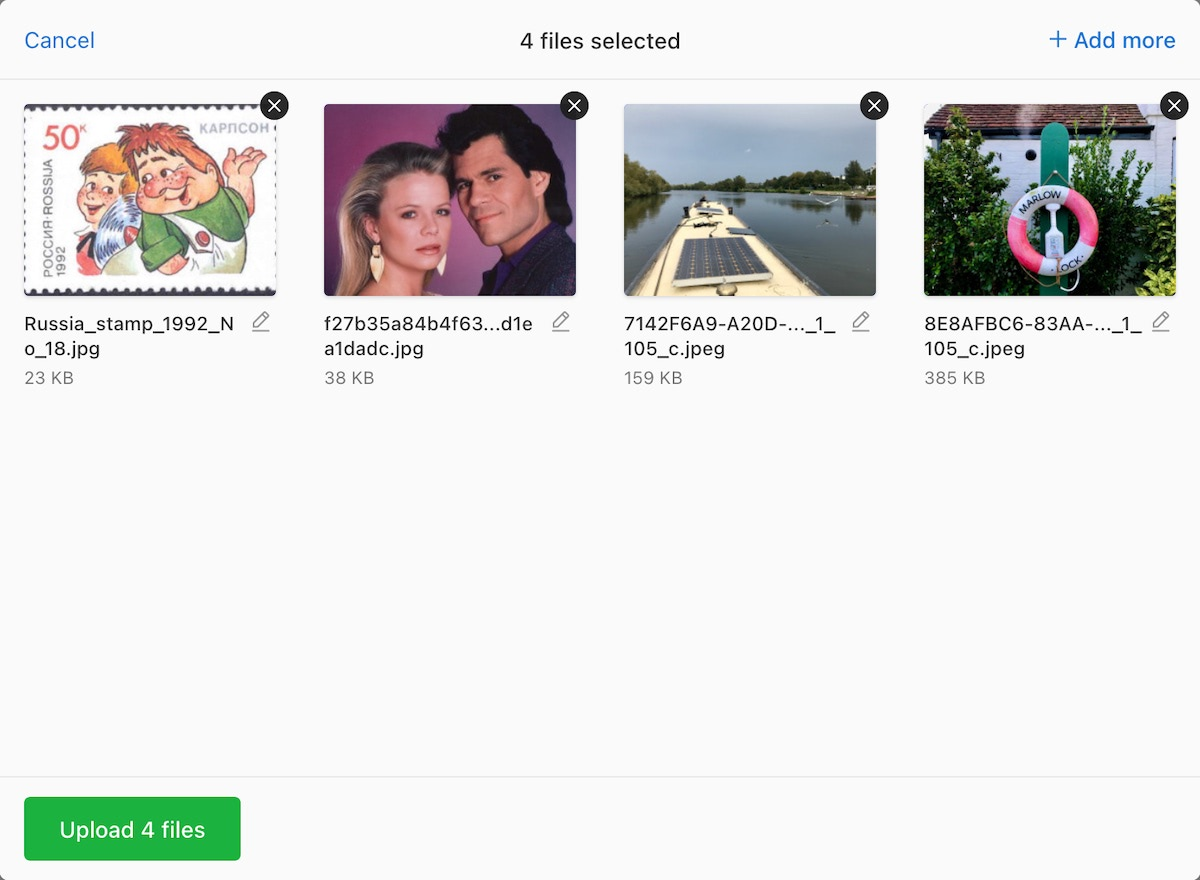
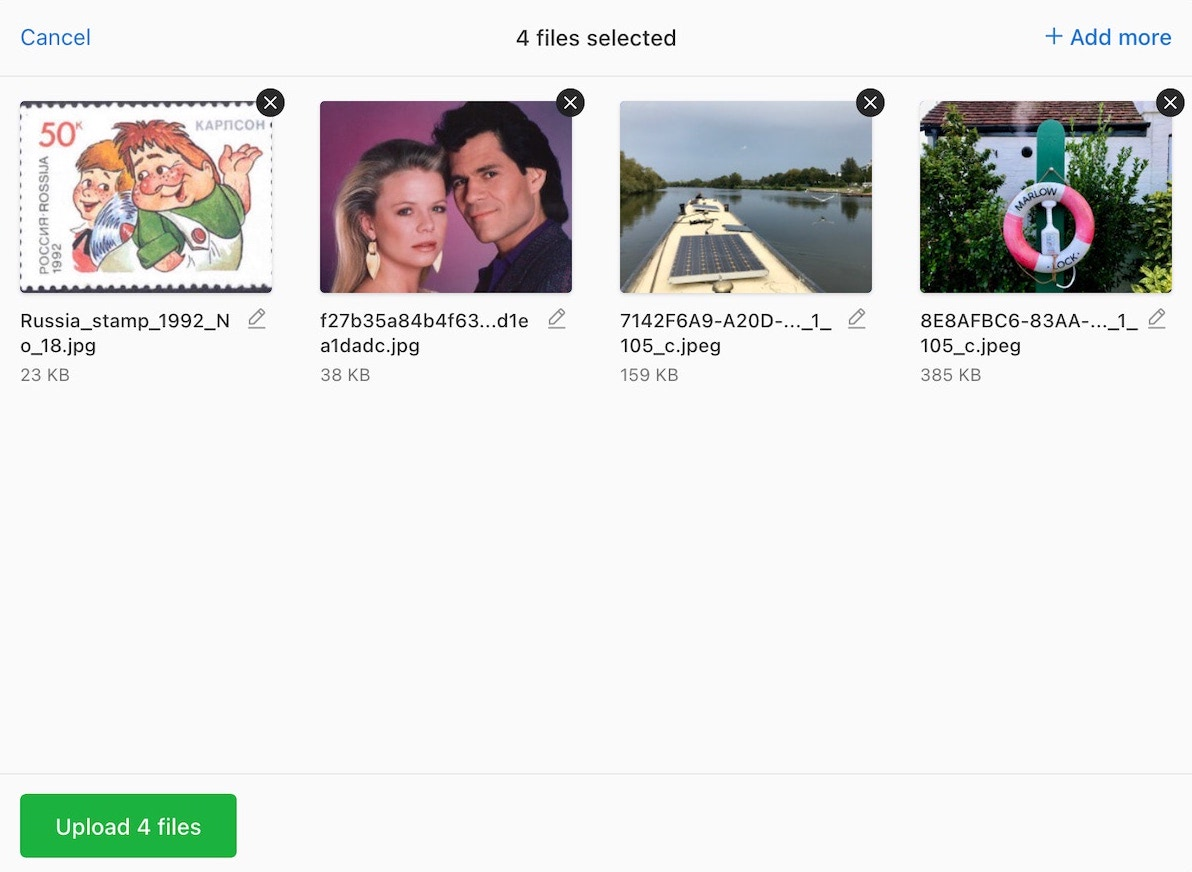
post minor tweaks

diff --git a/website/src/_posts/2021-08-2.0.md b/website/src/_posts/2021-08-2.0.md
@@ -20,7 +20,7 @@ Chow down on all the juicy bits and pieces inside!
 
 <!--more-->
 
-Uppy is a sleek, modular JavaScript file uploader that integrates seamlessly with any application. It is made for developers who want to provide their users with the ability to see image previews, edit metadata, pick large files directly from Dropbox, restore selected files when a tab was accidentally closed, or crop an image in-browser before sending.
+> Uppy is a sleek, modular JavaScript file uploader that integrates seamlessly with any application. It is made for developers who want to provide their users with the ability to see image previews, edit metadata, pick large files directly from Dropbox, restore selected files when a tab was accidentally closed, or crop an image in-browser before sending.
 
 * * *
 
@@ -30,7 +30,7 @@ Ever since the first introduction of Uppy [five years ago](/blog/2016/07/uppy-be
 
 With that in mind, we felt it was high time to give Uppy some more much-needed trimming. We want to take this opportunity to break with the past, to make the project leaner – and to pave the way for an even brighter future for Uppy!
 
-![Uppy 2.0 UI with files](/images/blog/2.0/uppy-ui-with-files.jpg)
+<img class="border" alt="Uppy 2.0 UI with files" src="/images/blog/2.0/uppy-ui-with-files.jpg">
 
 ## Table of Contents
 
